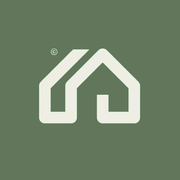
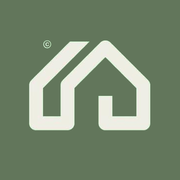
上午1:43：App 圖示裡的房子放大 20%

Changed region(s): [[0.1389, 0.2222, 0.8611, 0.75]]

diff --git a/index.html b/index.html
@@ -11,12 +11,12 @@
   <meta name="apple-mobile-web-app-status-bar-style" content="default" />
   <meta name="apple-mobile-web-app-title" content="統潔＆信潔開發" />
   <link rel="manifest" href="manifest.json" />
-  <link rel="apple-touch-icon" href="apple-touch-icon.png?v=1163" />
+  <link rel="apple-touch-icon" href="apple-touch-icon.png?v=1164" />
   <link rel="preload" as="image" href="images/asset-map.webp" fetchpriority="high" />
   <title>統潔＆信潔開發有限公司 — 租房管理</title>
-  <link rel="stylesheet" href="app.css?v=1163" />
-  <link rel="stylesheet" href="plan-icon.css?v=1163" />
-  <link rel="stylesheet" href="work-scroll.css?v=1163" />
+  <link rel="stylesheet" href="app.css?v=1164" />
+  <link rel="stylesheet" href="plan-icon.css?v=1164" />
+  <link rel="stylesheet" href="work-scroll.css?v=1164" />
   <style>
     html, body { margin: 0; background: #ffffff; }
     #splash {
@@ -53,8 +53,8 @@
       catch (e) { return false; }
     }
   </script>
-  <script src="app.js?v=1163"></script>
-  <script src="work-enhance.js?v=1163"></script>
+  <script src="app.js?v=1164"></script>
+  <script src="work-enhance.js?v=1164"></script>
   <script>setTimeout(function(){ var s=document.getElementById("splash"); if(s) s.classList.add("out"); }, 3500);</script>
 </body>
 </html>

diff --git a/sw.js b/sw.js
@@ -1,5 +1,5 @@
-const CACHE = "tongjie-app-v1678";
-const BUILD = "20260930-1163";
+const CACHE = "tongjie-app-v1679";
+const BUILD = "20260930-1164";
 const FILES = ["/", "/index.html", "/app.css", "/app.js", "/work-scroll.css", "/work-enhance.js", "/manifest.json", "/icon-192.png", "/icon-512.png", "/icon-maskable-512.png", "/images/asset-map.webp"];
 self.addEventListener("install", e => {
   self.skipWaiting();

diff --git a/plan-icon.css b/plan-icon.css
@@ -1,6 +1,6 @@
 .move-pick-plan {
   background-color: #62765b;
-  -webkit-mask: url("images/plan-mark.png?v=1163") center / 20px 20px no-repeat;
-  mask: url("images/plan-mark.png?v=1163") center / 20px 20px no-repeat;
+  -webkit-mask: url("images/plan-mark.png?v=1164") center / 20px 20px no-repeat;
+  mask: url("images/plan-mark.png?v=1164") center / 20px 20px no-repeat;
 }
 .move-pick-plan img { opacity: 0; }
